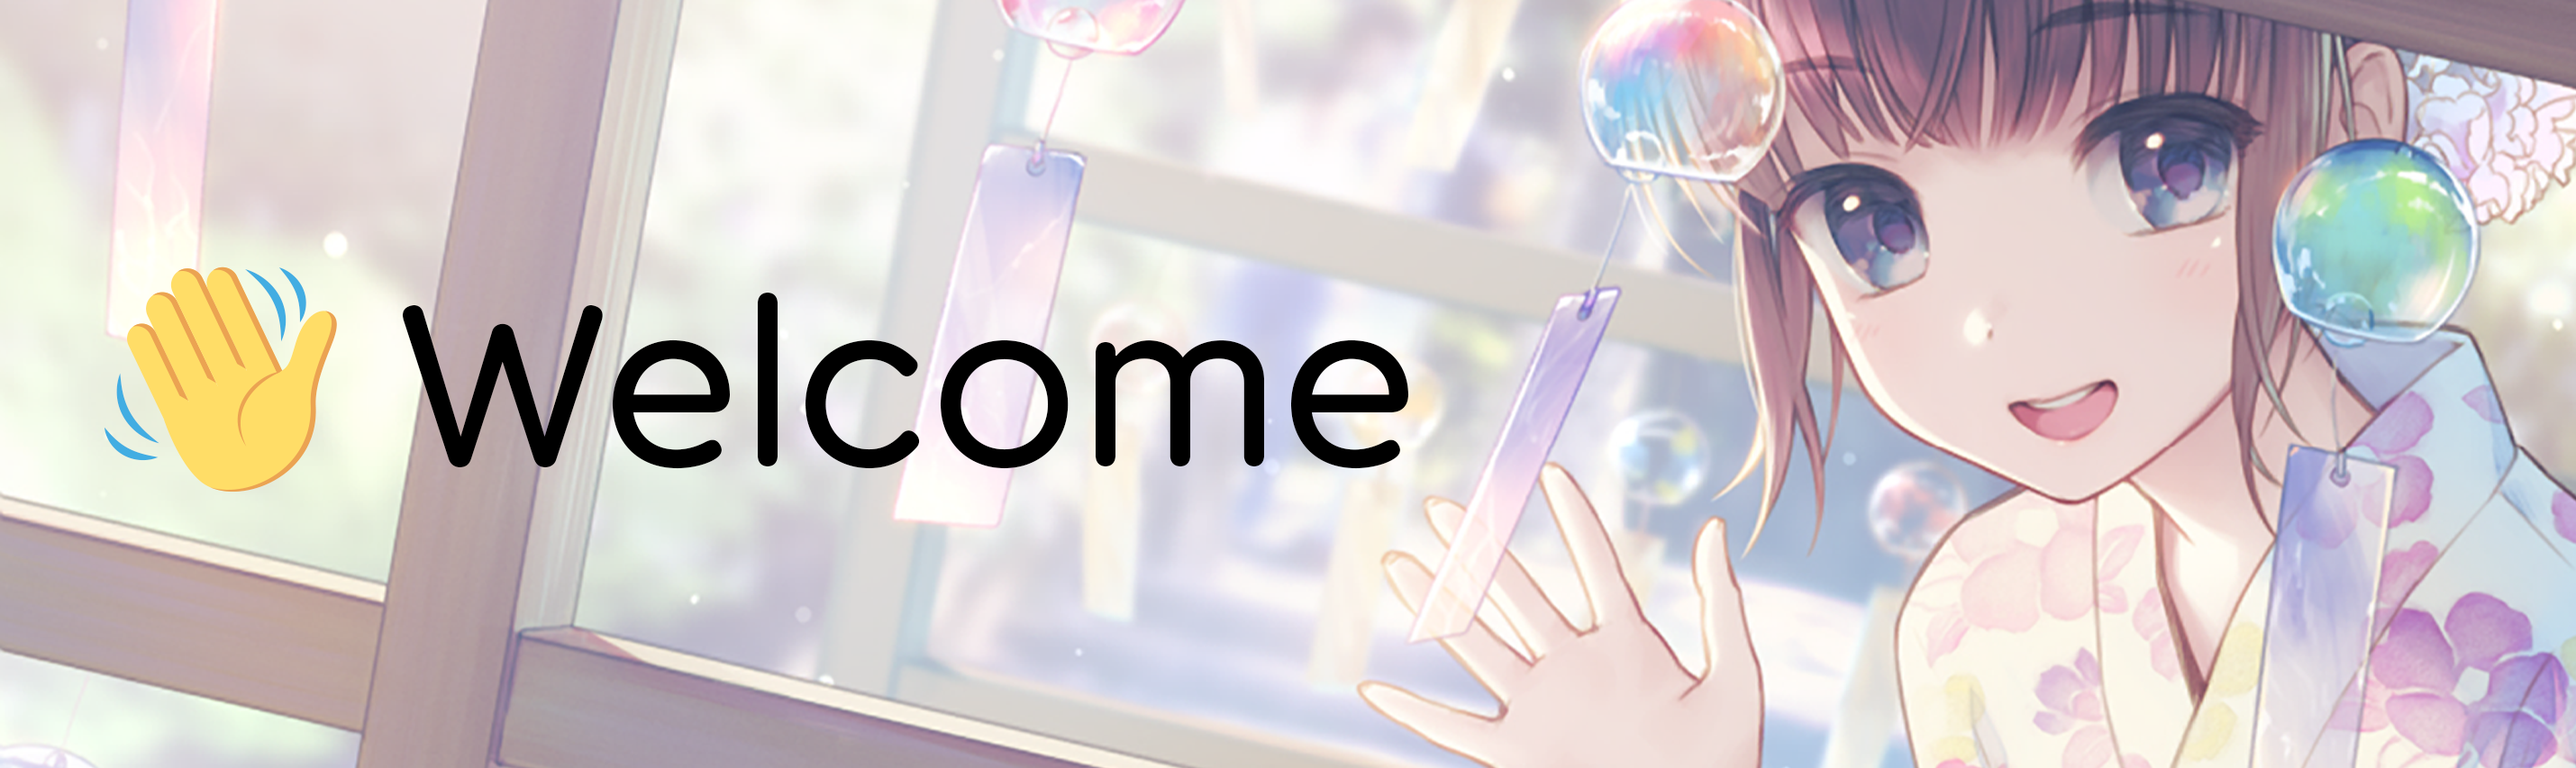
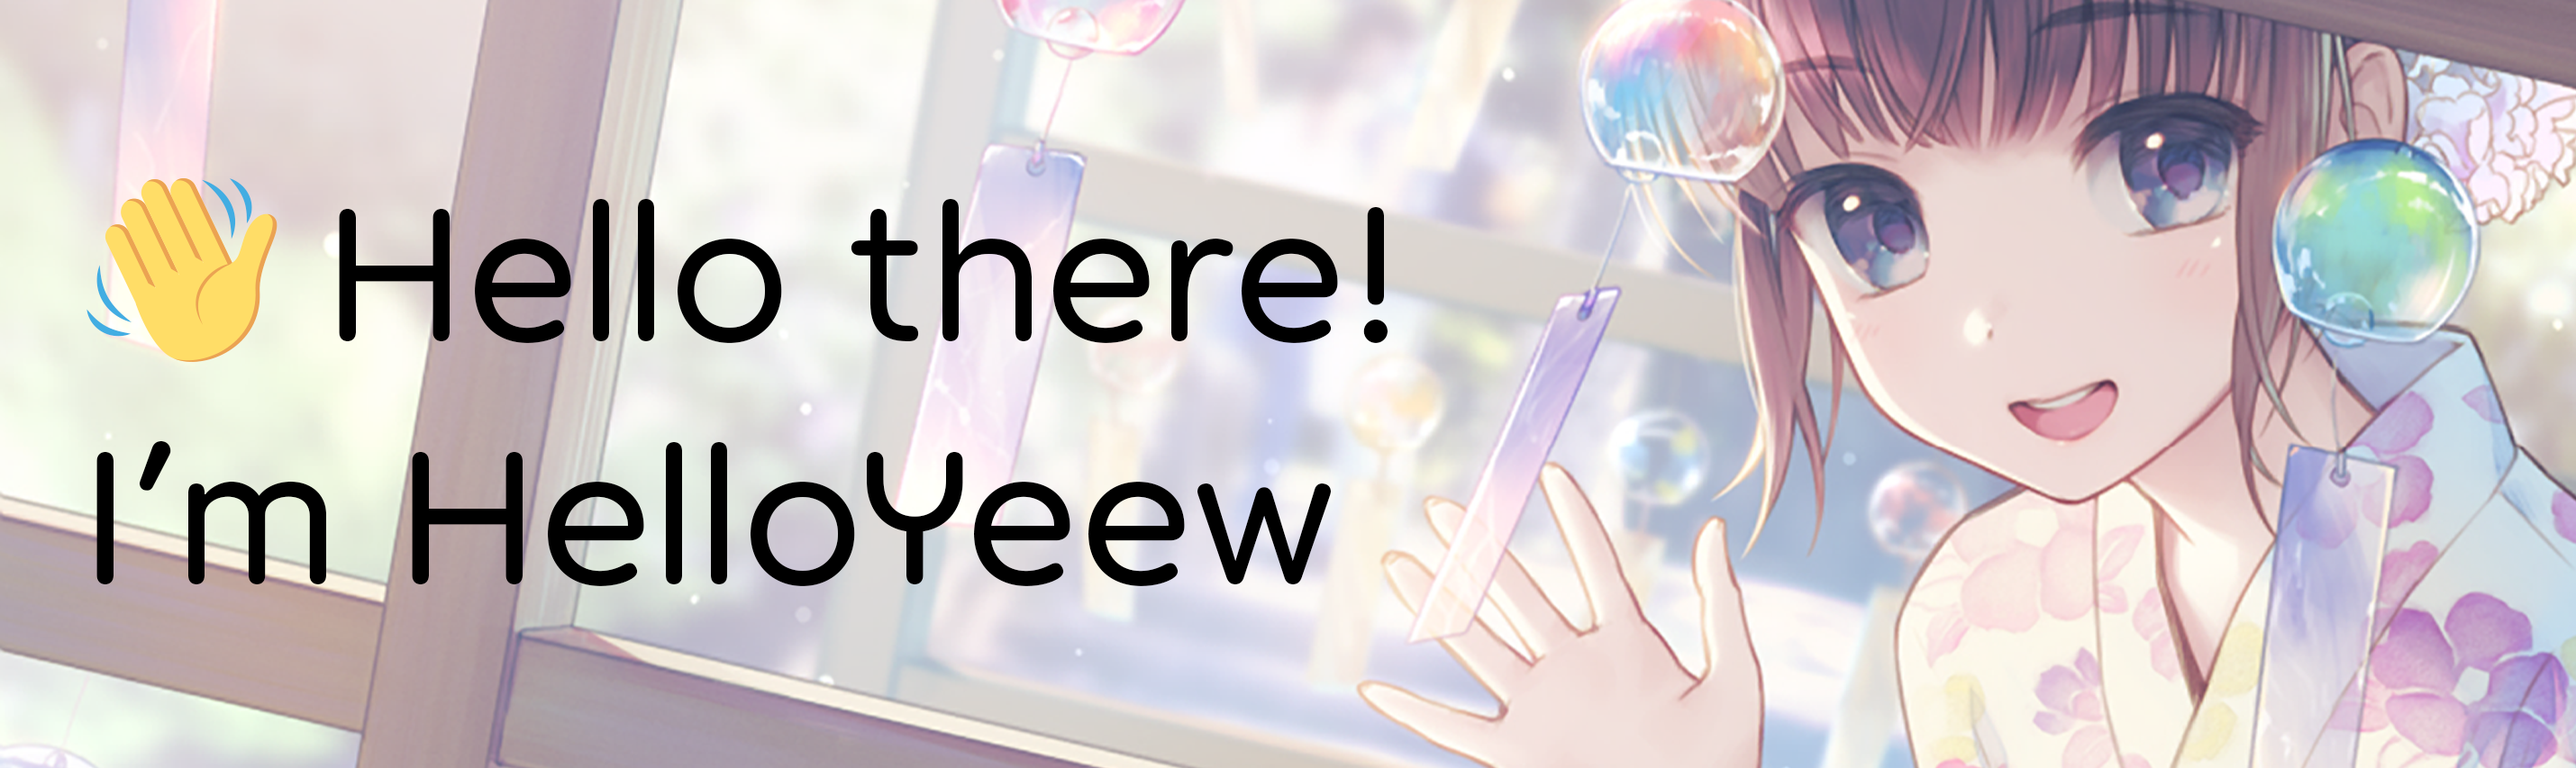
Finish adding all picture

Changed region(s): [[0.0311, 0.2134, 0.5603, 0.762]]

diff --git a/README.md b/README.md
@@ -1,64 +1,44 @@
 <img src="welcome-banner.png" alt="Welcome!">
 
-<h2 align="center">😺 ~ About me ~ 😺</h2> 
+<h2 align="center">😺 About me 😺</h2> 
 <img src="about-me-pic.png" width="20%" align="right">
 <li><b>Name:</b> HelloYeew (ヘローイーオ)</li>
 <li><b>Gender:</b> he/him/Male</li>
+<li><b>❤ Color:</b> <a href="https://www.color-hex.com/color-palette/104633">osu! pink</a> and purple color tone</li>
 <li><b>Education:</b> Sophomore in Software and Knowledge Engineering</li>
-<li><b>Working @:</b> <a href="https://github.com/Rurusetto/rurusetto">rūrusetto</a> | Other open source</li>
+<li><b>Working On:</b> <a href="https://github.com/Rurusetto/rurusetto">rūrusetto</a> | <a href="https://github.com/HelloYeew/maisim">maisim</a> | Other open source</li>
 <li><b>Goal:</b> Work on something that I love at my favorite country!</li>
 <br>
-<p><b>I love <a href="https://www.color-hex.com/color-palette/104633">osu! pink</a> and purple tone soooo much. That's why everything is pink here.</b></p>
+<p><b></b></p>
 
-## ~ 📇 Knowledge 📇 ~
+## 📇 Knowledge 📇
 
-<img src="about-me-pic.png" width="10%" align="right">
+<img src="knowledge-pic.png" width="50%" align="right">
 <p align="center"><img src="https://img.shields.io/badge/-python-3776AB.svg?&style=for-the-badge&logo=python&logoColor=white"/> <img src="https://img.shields.io/badge/-django-092E20.svg?&style=for-the-badge&logo=django&logoColor=white"/> <img src="https://img.shields.io/badge/-csharp-239120.svg?&style=for-the-badge&logo=csharp&logoColor=white"/> <img src="https://img.shields.io/badge/-html5-E34F26.svg?&style=for-the-badge&logo=html5&logoColor=white"/> <img src="https://img.shields.io/badge/-css3-1572B6.svg?&style=for-the-badge&logo=css3&logoColor=white"/> <img src="https://img.shields.io/badge/-bootstrap-7952B3.svg?&style=for-the-badge&logo=bootstrap&logoColor=white"/> <img src="https://img.shields.io/badge/-nginx-009639.svg?&style=for-the-badge&logo=nginx&logoColor=white"/> <img src="https://img.shields.io/badge/-digitalocean-0080FF.svg?&style=for-the-badge&logo=digitalocean&logoColor=white"/> <img src="https://img.shields.io/badge/adobe%20photoshop%20-%2331A8FF.svg?&style=for-the-badge&logo=adobe%20photoshop&logoColor=white"/></p>
 
 I normally working on some backend stuff with some graphic design stuff.
 
-## 🎵 ~ Music ~ 🎵
+## 🎵 Music 🎵
 
-<img src="about-me-pic.png" width="15%" align="right">
+<img src="music-pic.png" width="100%" align="right">
 
-<p>I normally listen to music all days since it make me not dead inside and make it relieve from my stress stuff. And if you want to know more <a href="https://www.last.fm/user/HelloYeew">yes, I'm still using last.fm lol</a>.</p>
+<p>I normally listen to music all days since it make me not dead inside or pretend to be dead. And if you want to know more <a href="https://www.last.fm/user/HelloYeew">yes, I'm still using last.fm lmao</a>.</p>
 
 <!-- lastfm -->
 <p align="center"><a href="https://www.last.fm/music/%E3%83%A6%E3%83%A1%E3%82%AC%E3%82%BF%E3%83%AA(%E3%83%9F%E3%83%84%E3%82%AD%E3%83%A8+,+shnva)/%E3%83%A6%E3%83%A1%E3%81%AE%E5%96%AB%E8%8C%B6%E5%BA%97"><img src="https://lastfm.freetls.fastly.net/i/u/64s/a61f55afc4fb2356062c4df07cb90e6a.jpg" title="ユメガタリ(ミツキヨ , shnva) - ユメの喫茶店"></a> <a href="https://www.last.fm/music/Mrs.+GREEN+APPLE/Ao+To+Natsu"><img src="https://lastfm.freetls.fastly.net/i/u/64s/427730fa301a558e05f0b21ac7b0d692.jpg" title="Mrs. GREEN APPLE - Ao To Natsu"></a> <a href="https://www.last.fm/music/Uchikubigokumondoukoukai/FUYU+BAN"><img src="https://lastfm.freetls.fastly.net/i/u/64s/1c9262dd65e1cc85845c1f3b63c973d9.jpg" title="Uchikubigokumondoukoukai - FUYU BAN"></a> <a href="https://www.last.fm/music/DragonForce/Killer+Elite"><img src="https://lastfm.freetls.fastly.net/i/u/64s/4cf596acdd64d958d5325cb67ac1281f.jpg" title="DragonForce - Killer Elite"></a> <a href="https://www.last.fm/music/Nano/N"><img src="https://lastfm.freetls.fastly.net/i/u/64s/78b87981c50d419daa1c868f107c39c6.jpg" title="Nano - N"></a> <a href="https://www.last.fm/music/Nhato/TRACE+OF+WILL"><img src="https://lastfm.freetls.fastly.net/i/u/64s/4d8e811740f87d1b1d880777fcb65da0.jpg" title="Nhato - TRACE OF WILL"></a> <a href="https://www.last.fm/music/Aqours/%E9%9D%92%E7%A9%BAJumping+Heart"><img src="https://lastfm.freetls.fastly.net/i/u/64s/a64b8e96c7a2baacad4fa03d0ea8da5c.jpg" title="Aqours - 青空Jumping Heart"></a> <a href="https://www.last.fm/music/ClariS/CheerS"><img src="https://lastfm.freetls.fastly.net/i/u/64s/cc8bf5074b340780bab084e6b896f447.png" title="ClariS - CheerS"></a> <a href="https://www.last.fm/music/Fleshgod+Apocalypse/Agony"><img src="https://lastfm.freetls.fastly.net/i/u/64s/5696a3c7df654b5bbde2282036696db8.png" title="Fleshgod Apocalypse - Agony"></a> <a href="https://www.last.fm/music/Galneryus/Under+the+Force+of+Courage"><img src="https://lastfm.freetls.fastly.net/i/u/64s/07977695d3114433b96074320609b8d8.jpg" title="Galneryus - Under the Force of Courage"></a> </p>
 
 <p><i>Here is my latest top album that I've listened most. Update every day using this. (づ｡◕‿‿◕｡)づ</i></p>
 
-## ~ 📝 Contact time! 📝 ~
+## 📝 Contact time! 📝
 
-<img src="about-me-pic.png" width="15%" align="right">
+<img src="contact-pic.png" width="100%" align="right">
 
 <p align="center"><a href="https://twitter.com/nonggummud" target="_blank"><img src="https://img.shields.io/badge/-nonggummud-1DA1F2.svg?&style=for-the-badge&logo=Twitter&logoColor=white"/></a> <img src="https://img.shields.io/badge/-helloyeew%232740-5865F2.svg?&style=for-the-badge&logo=Discord&logoColor=white"/> <a href="https://www.linkedin.com/in/helloyeew" target="_blank"><img src="https://img.shields.io/badge/-helloyeew-0A66C2.svg?&style=for-the-badge&logo=linkedin&logoColor=white"/></a></p>
 
 And YEP no osu! badge here so <a href="https://osu.ppy.sh/users/18735426">here is my 6 digits profile GIGACHAD</a>.
 
-## My Personal Repositories
+<img src="bye-banner.png" alt="Thanks for visiting!">
 
-This part will be revamped with other part soon ✨
-
-- [💻 HelloYeew's MacBook Setup](https://github.com/HelloYeew/macbook-setup)
-- [helloyeew.dev](https://www.helloyeew.dev) : My official homepage ([repo](https://github.com/HelloYeew/helloyeew.dev))
-- [blog.helloyeew.dev](https://blog.helloyeew.dev/) : My personal blog that I want to write some personal stuff ([repo](https://github.com/HelloYeew/blog)). Currently want to make more styling and the markdown render styling is still not right.
-- [garden.helloyeew.dev](https://garden.helloyeew.dev/) : My Digital Garden ([repo](https://github.com/HelloYeew/helloyeew-digital-garden)), currently will continue the development on this.
-- [mamizu-api](https://github.com/HelloYeew/mamizu-api) : My personal API to make some stuff easier, target to make all of my personal tool sync on this.
-- [maisim](https://github.com/HelloYeew/maisim) : A free and open-source, community-powered clone of SEGA's Maimai game powered by the osu!framework.
+<p align="center"><a href="https://www.helloyeew.dev">homepage</a> | <a href="https://blog.helloyeew.dev/">blog</a> | <a href="https://garden.helloyeew.dev/">digital garden</a></p>
 
 ![](https://hit.yhype.me/github/profile?user_id=68165621)
-<!--
-**HelloYeew/HelloYeew** is a ✨ _special_ ✨ repository because its `README.md` (this file) appears on your GitHub profile.
-
-Here are some ideas to get you started:
-
-- 🔭 I’m currently working on ...
-- 🌱 I’m currently learning ...
-- 👯 I’m looking to collaborate on ...
-- 🤔 I’m looking for help with ...
-- 💬 Ask me about ...
-- 📫 How to reach me: ...
-- 😄 Pronouns: ...
-- ⚡ Fun fact: ...
--->
